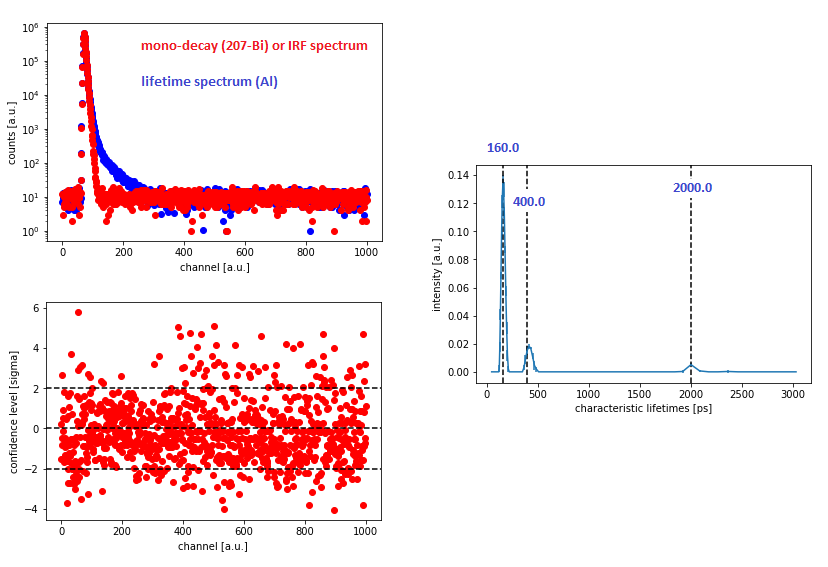
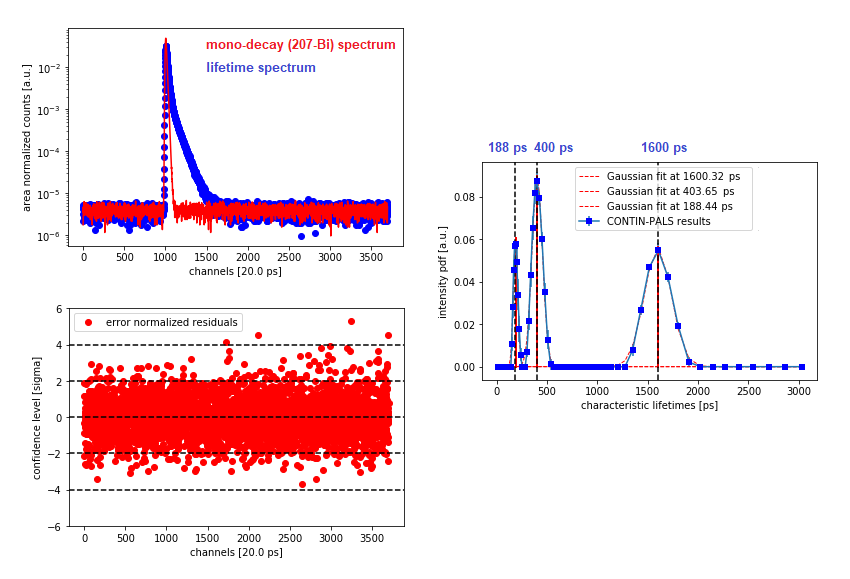
demo bug fixed
demo bug fixed

Changed region(s): [[0.0, 0.5097, 0.4831, 0.9894], [0.0, 0.03, 0.4831, 0.4797], [0.5133, 0.2399, 0.9662, 0.7496]]

diff --git a/pyDCONTINPALS/pyDCONTINPALSInput.py b/pyDCONTINPALS/pyDCONTINPALSInput.py
@@ -2,7 +2,7 @@
 
 #*************************************************************************************************
 #**")
-#** Copyright (c) 2020-2021 Danny Petschke. All rights reserved.
+#** Copyright (c) 2020-2022 Dr. Danny Petschke. All rights reserved.
 #**")
 #** This program is free software: you can redistribute it and/or modify
 #** it under the terms of the GNU General Public License as published by
@@ -23,10 +23,10 @@
 
 __demoMode                  = True # disable if running from real data
 
-# NOTE: spectrum and IRF (or mono-exponential decay spectrum) data vectors require equal length!
+# NOTE: SPECTRUM and IRF (or mono-exponential decay spectrum) data vectors require equal length!
 
 __roi_start                 = 0
-__roi_end                   = 7400
+__roi_end                   = 7400 # Note: number of channels is internally limited by CONTIN to <= 4000, so adjust the '__binFactor' in order to fit the given number of channels into this range
 
 # file path (and name) to the SPECTRUM data:
 
@@ -36,31 +36,39 @@ __filePathSpec              = 'testData/spectrum_10ps.dat'
 __specDataDelimiter         = '\t'
 
 # file path (and name) to the IRF data:
+
 __filePathRefOrIRFSpec      = 'testData/ref_10ps.dat'
 __refDataDelimiter          = '\t'
 
-# define the number of rows, which should be skipped during the import (e.g. for ignoring the header entries):
+# define the number of rows to be skipped during the import of the data (e.g. for ignoring the header entries):
+
 __skipRows                  = 5;
 
 # fixed mono-decay component in units of picoseconds [ps] (1/lambda = tau):
 
-# Note: set to something like 1E-6 if you provide numerical IRF data as input
-__tau_monoDecaySpec_in_ps   = 182.  #[ps]
+# Note: set to values below 1E-6 if you are providing numerical IRF data as input otherwise the decay rate in [ps]: 
+
+__tau_monoDecaySpec_in_ps   = 182.  # [ps]
+
+# used to simulate the IRF in case of '__demoMode' == True:
 
 __t_zero                    = 2000             # channel number 
 __irf_fwhm                  = [270.04,498.63]  # [ps]
 __irf_intensity             = [0.9382,0.0618]  # [ps]
 __irf_t0                    = [0.,6.6]         # [ps]
 
-# grid of characteristic lifetimes with equally distributed grid points defining the resulting intensity spectrum
+# grid of characteristic lifetimes with equally distributed grid points defining the resulting intensity spectrum to be expected as output:
+
 __gridTau_start             = 10.0   # [ps]
 __gridTau_stop              = 3000.0 # [ps]
-__gridPoints                = 100    # 10 ... 100 Note: this value is internally limited to 100 by CONTIN
+__gridPoints                = 100    # 10 ... 100 Note: this value is internally limited by CONTIN
 
-# channel/bin resolution [ps]
-__channelResolutionInPs     = 5.  # >= 10 ... Note: this value is internally limited by CONTIN
-__binFactor                 = 1
+# channel/bin resolution [ps]:
 
-# background estimation:
+__channelResolutionInPs     = 10. # >= 10 ... Note: this value is internally limited by CONTIN. If lower, increase '__binFactor' to fit into this range
+__binFactor                 = 2   # Note: number of channels is internally limited by CONTIN to <= 4000, so adjust the '__binFactor' in order to fit the given number of channels into this range
+
+# background estimation/calculation region:
+
 __bkgrd_startIndex          = 6500;
 __bkgrd_count               = 900; # number of channels with respect to the 'startIndex'

diff --git a/pyDCONTINPALS/pyDCONTINPALS.py b/pyDCONTINPALS/pyDCONTINPALS.py
@@ -35,9 +35,9 @@ import pyDCONTINPALSSpecSimulator as specSimulator
 import pyDCONTINPALSInput as userInput
 
 def __information__():
-    print("#********************* pyDCONTINPALS 1.02 (16.03.2021) *********************")
+    print("#********************* pyDCONTINPALS 1.03 (25.08.2022) *********************")
     print("#**")
-    print("#** Copyright (C) 2020-2021 Danny Petschke")
+    print("#** Copyright (C) 2020-2022 Dr. Danny Petschke")
     print("#**")
     print("#** Contact: danny.petschke@uni-wuerzburg.de")
     print("#**")
@@ -46,7 +46,7 @@ def __information__():
 def __licence__():
     print("#*************************************************************************************************")
     print("#**")
-    print("#** Copyright (c) 2020-2021 Danny Petschke. All rights reserved.")
+    print("#** Copyright (c) 2020-2022 Dr. Danny Petschke. All rights reserved.")
     print("#**")
     print("#** This program is free software: you can redistribute it and/or modify") 
     print("#** it under the terms of the GNU General Public License as published by")
@@ -147,7 +147,7 @@ if __name__ == '__main__':
                                                                     noise=True,
                                                                     noiseLevel=1.0)
         
-        specdata_ref = specSimulator.generateCompleteLTSpectrum(numberOfComponents=3,
+        specdata_ref = specSimulator.generateCompleteLTSpectrum(numberOfComponents=1,
                                                                     binWidth_in_ps=binWidth_in_ps, 
                                                                     integralCounts=5000000, 
                                                                     constBkgrdCounts=5, 
@@ -221,6 +221,7 @@ if __name__ == '__main__':
     numberOfBins = len(spec_data_roi)
         
     # catch general limitations given by CONTIN-PALS
+    
     assert numberOfBins <= 4000 and numberOfBins >= 10 
     assert gridPoints >= 10 and gridPoints <= 100
     assert binWidth_in_ps >= 10.0

diff --git a/pyDCONTINPALS/pyDCONTINPALSSpecSimulator.py b/pyDCONTINPALS/pyDCONTINPALSSpecSimulator.py
@@ -2,7 +2,7 @@
 
 #*************************************************************************************************
 #**")
-#** Copyright (c) 2020-2021 Danny Petschke. All rights reserved.
+#** Copyright (c) 2020-2022 Dr. Danny Petschke. All rights reserved.
 #**")
 #** This program is free software: you can redistribute it and/or modify
 #** it under the terms of the GNU General Public License as published by
